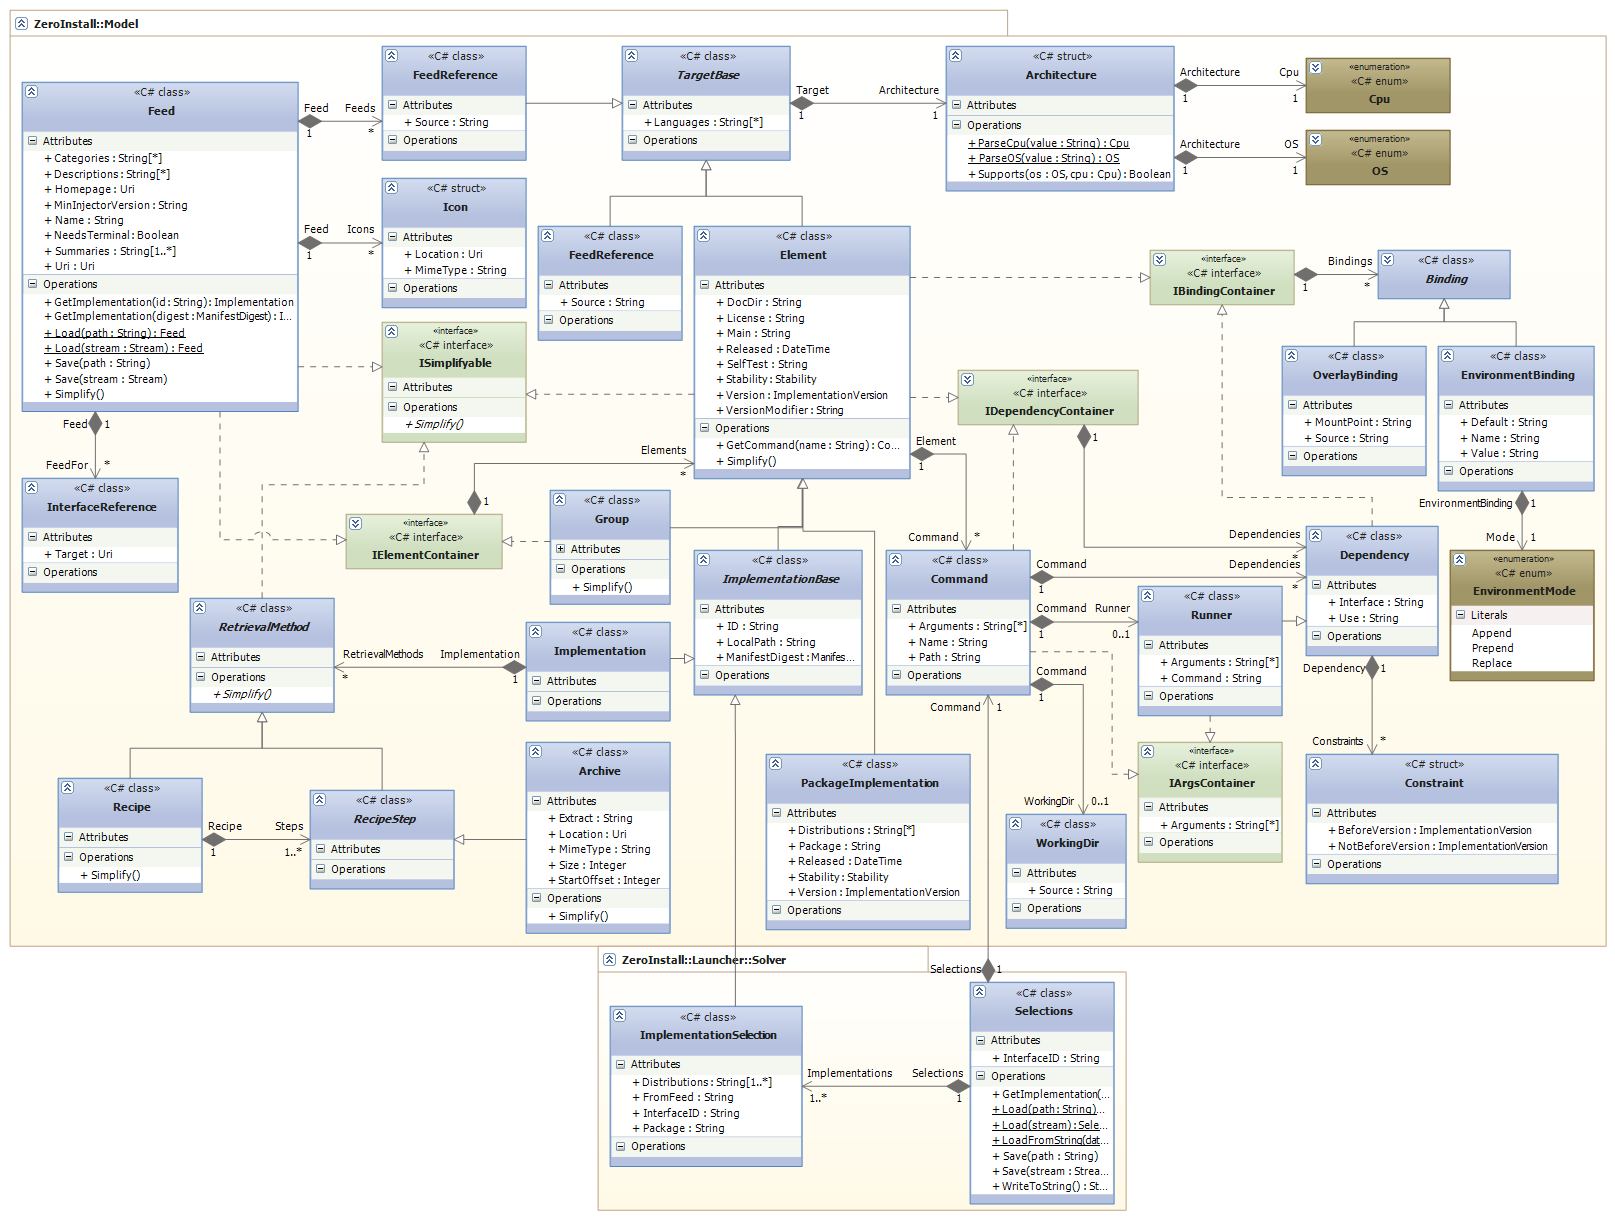
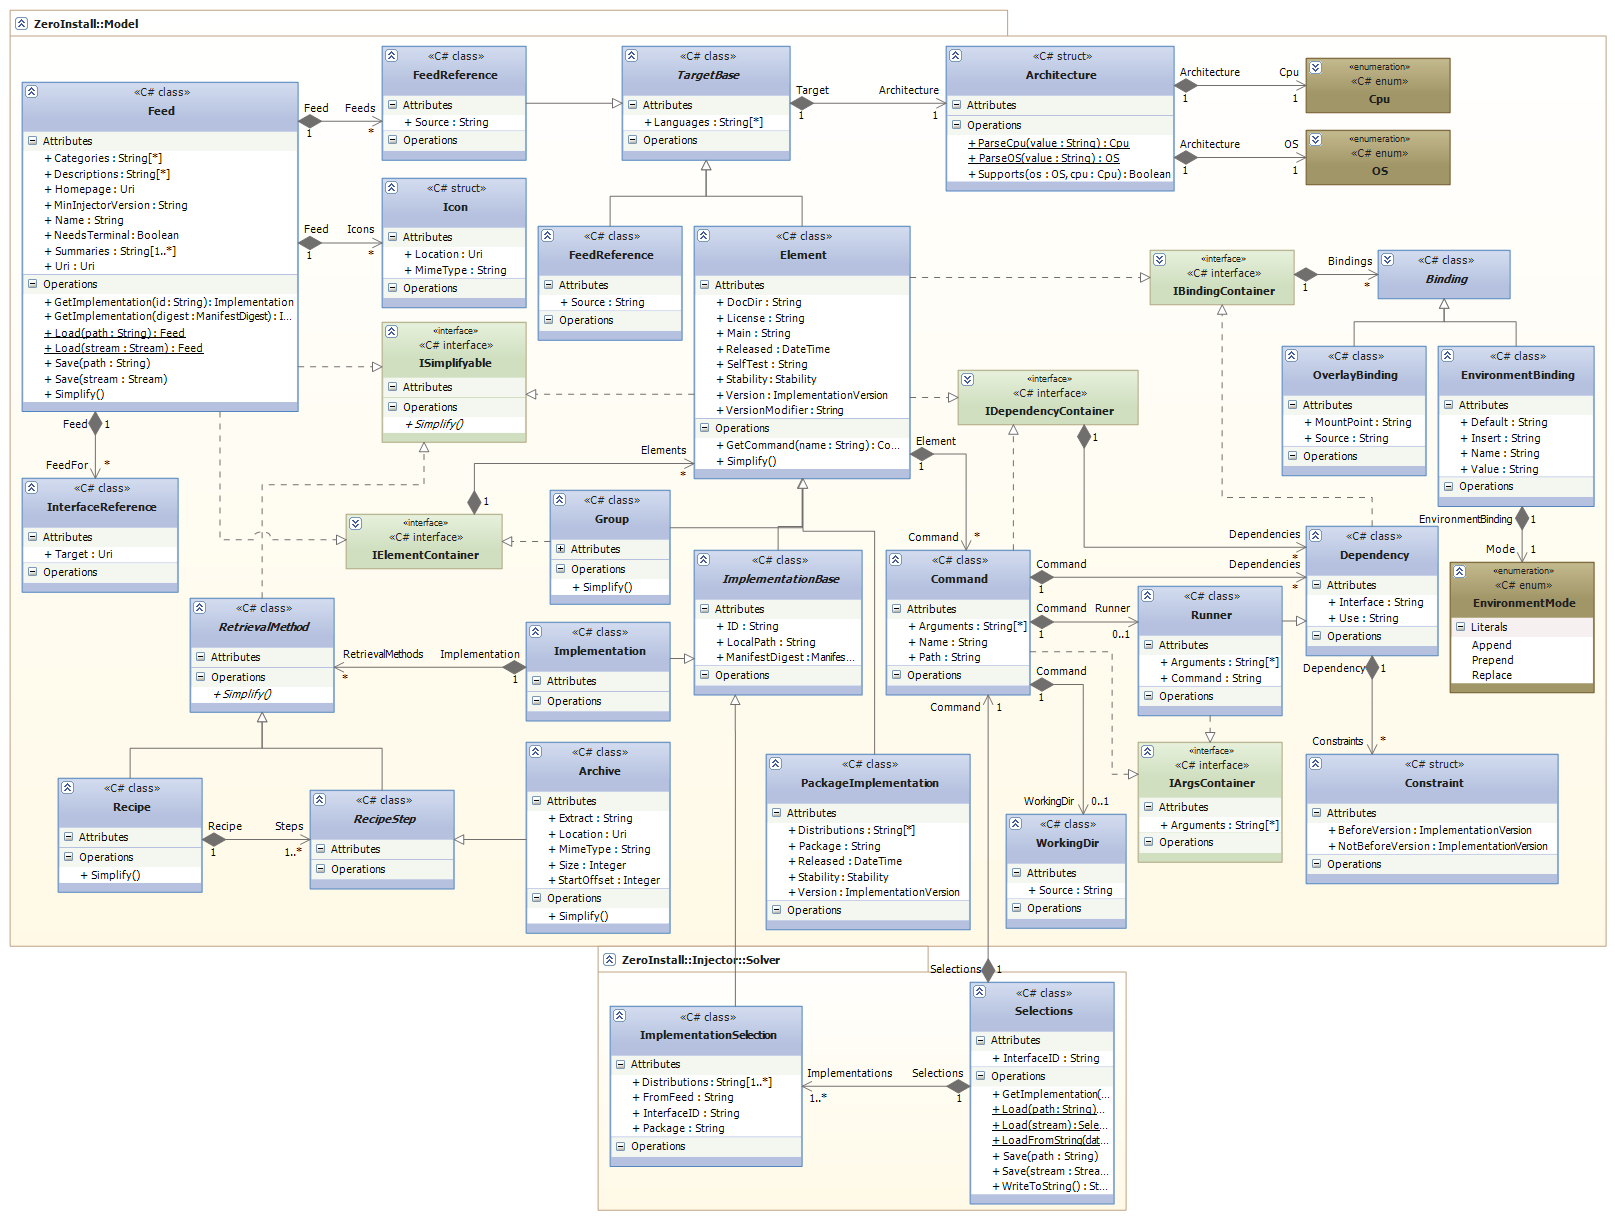
Added "value" attribute to EnvironmentBinding

Changed region(s): [[0.8669, 0.3429, 0.9907, 0.5923], [0.4334, 0.7793, 0.4954, 0.8105]]

diff --git a/src/Model/EnvironmentBinding.cs b/src/Model/EnvironmentBinding.cs
@@ -23,7 +23,7 @@ namespace ZeroInstall.Model
 {
     #region Enumerations
     /// <summary>
-    /// Controls how a <see cref="EnvironmentBinding.Value"/> is added to the variable.
+    /// Controls how a <see cref="EnvironmentBinding.Insert"/> is added to the variable.
     /// </summary>
     public enum EnvironmentMode
     {
@@ -54,14 +54,23 @@ namespace ZeroInstall.Model
         public string Name { get; set; }
 
         /// <summary>
-        /// The relative path of the item within the implementation to insert into the variable's value. Use <code>.</code> to publish the root directory.
+        /// A static value to set the variable to.
         /// </summary>
-        [Description("The relative path of the item within the implementation to insert into the variable's value. Use \".\" to publish the root directory")]
-        [XmlAttribute("insert")]
+        /// <remarks>If this is set <see cref="Insert"/> must be <see langword="null"/>.</remarks>
+        [Description("A static value to set the variable to.")]
+        [XmlAttribute("value")]
         public string Value { get; set; }
 
         /// <summary>
-        /// Controls how the <see cref="Value"/> is added to the variable.
+        /// The relative path of the item within the implementation to insert into the variable's value. Use <code>.</code> to publish the root directory.
+        /// </summary>
+        /// <remarks>If this is set <see cref="Value"/> must be <see langword="null"/>.</remarks>
+        [Description("The relative path of the item within the implementation to insert into the variable's value. Use \".\" to publish the root directory.")]
+        [XmlAttribute("insert")]
+        public string Insert { get; set; }
+
+        /// <summary>
+        /// Controls how the <see cref="Insert"/> is added to the variable.
         /// </summary>
         [Description("Controls how the value is added to the variable.")]
         [XmlAttribute("mode"), DefaultValue(typeof(EnvironmentMode), "Prepend")]
@@ -84,8 +93,8 @@ namespace ZeroInstall.Model
         public override string ToString()
         {
             return (Mode == EnvironmentMode.Replace)
-                ? string.Format("EnvironmentBinding: {0} = {1} ({2})", Name, Value, Mode)
-                : string.Format("EnvironmentBinding: {0} = {1} ({2}, {3})", Name, Value, Mode, Default);
+                ? string.Format("EnvironmentBinding: {0} = {1} ({2})", Name, Insert, Mode)
+                : string.Format("EnvironmentBinding: {0} = {1} ({2}, {3})", Name, Insert, Mode, Default);
         }
         #endregion
 
@@ -96,7 +105,7 @@ namespace ZeroInstall.Model
         /// <returns>The new copy of the <see cref="EnvironmentBinding"/>.</returns>
         public override Binding CloneBinding()
         {
-            return new EnvironmentBinding { Name = Name, Value = Value, Mode = Mode, Default = Default };
+            return new EnvironmentBinding { Name = Name, Value = Value, Insert = Insert, Mode = Mode, Default = Default };
         }
         #endregion
 
@@ -106,7 +115,7 @@ namespace ZeroInstall.Model
         {
             if (ReferenceEquals(null, other)) return false;
 
-            return other.Name == Name || other.Value == Value || other.Mode == Mode || other.Default == Default;
+            return other.Name == Name || other.Value == Value || other.Insert == Insert || other.Mode == Mode || other.Default == Default;
         }
 
         /// <inheritdoc/>
@@ -124,6 +133,7 @@ namespace ZeroInstall.Model
             {
                 int result = (Name != null ? Name.GetHashCode() : 0);
                 result = (result * 397) ^ (Value ?? "").GetHashCode();
+                result = (result * 397) ^ (Insert ?? "").GetHashCode();
                 result = (result * 397) ^ Mode.GetHashCode();
                 result = (result * 397) ^ (Default ?? "").GetHashCode();
                 return result;

diff --git a/src/Test.Backend/Injector/ExecutorTest.cs b/src/Test.Backend/Injector/ExecutorTest.cs
@@ -94,7 +94,9 @@ namespace ZeroInstall.Injector
                 startInfo.Arguments);
             Assert.AreEqual(Path.Combine("test1 path", "bin"), startInfo.WorkingDirectory);
             Assert.AreEqual("test1 path", startInfo.EnvironmentVariables["TEST1_PATH"]);
+            Assert.AreEqual("test1", startInfo.EnvironmentVariables["TEST1_VALUE"]);
             Assert.AreEqual("test2 path", startInfo.EnvironmentVariables["TEST2_PATH"]);
+            Assert.AreEqual("test2", startInfo.EnvironmentVariables["TEST2_VALUE"]);
         }
 
         /// <summary>
@@ -121,7 +123,9 @@ namespace ZeroInstall.Injector
                 startInfo.Arguments);
             Assert.AreEqual(Path.Combine("test1 path", "bin"), startInfo.WorkingDirectory);
             Assert.AreEqual("test1 path", startInfo.EnvironmentVariables["TEST1_PATH"]);
+            Assert.AreEqual("test1", startInfo.EnvironmentVariables["TEST1_VALUE"]);
             Assert.AreEqual("test2 path", startInfo.EnvironmentVariables["TEST2_PATH"]);
+            Assert.AreEqual("test2", startInfo.EnvironmentVariables["TEST2_VALUE"]);
         }
 
         /// <summary>
@@ -146,7 +150,9 @@ namespace ZeroInstall.Injector
                 startInfo.Arguments);
             Assert.AreEqual(Path.Combine("test1 path", "bin"), startInfo.WorkingDirectory);
             Assert.AreEqual("test1 path", startInfo.EnvironmentVariables["TEST1_PATH"]);
+            Assert.AreEqual("test1", startInfo.EnvironmentVariables["TEST1_VALUE"]);
             Assert.AreEqual("test2 path", startInfo.EnvironmentVariables["TEST2_PATH"]);
+            Assert.AreEqual("test2", startInfo.EnvironmentVariables["TEST2_VALUE"]);
         }
 
         /// <summary>
@@ -169,7 +175,9 @@ namespace ZeroInstall.Injector
             Assert.AreEqual(selections.Commands[1].Arguments[0] + " " + selections.Commands[0].Runner.Arguments[0] + " \"" + StringUtils.PathCombine("test1 path", "dir 1", "main") + "\" --custom", startInfo.Arguments);
             Assert.AreEqual(Path.Combine("test1 path", "bin"), startInfo.WorkingDirectory);
             Assert.AreEqual("test1 path", startInfo.EnvironmentVariables["TEST1_PATH"]);
+            Assert.AreEqual("test1", startInfo.EnvironmentVariables["TEST1_VALUE"]);
             Assert.AreEqual("test2 path", startInfo.EnvironmentVariables["TEST2_PATH"]);
+            Assert.AreEqual("test2", startInfo.EnvironmentVariables["TEST2_VALUE"]);
         }
 
         /// <summary>
@@ -196,7 +204,9 @@ namespace ZeroInstall.Injector
                 startInfo.Arguments);
             Assert.AreEqual(Path.Combine("test1 path", "bin"), startInfo.WorkingDirectory);
             Assert.AreEqual("test1 path", startInfo.EnvironmentVariables["TEST1_PATH"]);
+            Assert.AreEqual("test1", startInfo.EnvironmentVariables["TEST1_VALUE"]);
             Assert.AreEqual("test2 path", startInfo.EnvironmentVariables["TEST2_PATH"]);
+            Assert.AreEqual("test2", startInfo.EnvironmentVariables["TEST2_VALUE"]);
         }
     }
 }

diff --git a/src/Injector/Executor.cs b/src/Injector/Executor.cs
@@ -312,25 +312,33 @@ namespace ZeroInstall.Injector
         private static void ApplyEnvironmentBinding(ProcessStartInfo startInfo, string implementationDirectory, EnvironmentBinding binding)
         {
             var environmentVariables = startInfo.EnvironmentVariables;
-            string environmentValue = Path.Combine(implementationDirectory, StringUtils.UnifySlashes(binding.Value ?? ""));
 
-            if (!environmentVariables.ContainsKey(binding.Name)) environmentVariables.Add(binding.Name, binding.Default);
+            if (string.IsNullOrEmpty(binding.Value))
+            { // Set a path inside the implementation
+                string environmentValue = Path.Combine(implementationDirectory, StringUtils.UnifySlashes(binding.Insert ?? ""));
 
-            string newValue;
-            switch (binding.Mode)
-            {
-                default:
-                case EnvironmentMode.Prepend:
-                    newValue = environmentValue + Path.PathSeparator + environmentVariables[binding.Name];
-                    break;
-                case EnvironmentMode.Append:
-                    newValue = environmentVariables[binding.Name] + Path.PathSeparator + environmentValue;
-                    break;
-                case EnvironmentMode.Replace:
-                    newValue = environmentValue;
-                    break;
+                if (!environmentVariables.ContainsKey(binding.Name)) environmentVariables.Add(binding.Name, binding.Default);
+
+                string newValue;
+                switch (binding.Mode)
+                {
+                    default:
+                    case EnvironmentMode.Prepend:
+                        newValue = environmentValue + Path.PathSeparator + environmentVariables[binding.Name];
+                        break;
+                    case EnvironmentMode.Append:
+                        newValue = environmentVariables[binding.Name] + Path.PathSeparator + environmentValue;
+                        break;
+                    case EnvironmentMode.Replace:
+                        newValue = environmentValue;
+                        break;
+                }
+                environmentVariables[binding.Name] = newValue.Trim(Path.PathSeparator);
             }
-            environmentVariables[binding.Name] = newValue.Trim(Path.PathSeparator);
+            else
+            { // Set a static value
+                environmentVariables[binding.Name] = binding.Value;
+            }
         }
 
         /// <summary>

diff --git a/src/Publish.WinForms/FeedStructure/EnvironmentBindingForm.cs b/src/Publish.WinForms/FeedStructure/EnvironmentBindingForm.cs
@@ -86,7 +86,7 @@ namespace ZeroInstall.Publish.WinForms.FeedStructure
         {
             ClearControl();
             if (!String.IsNullOrEmpty(_environmentBinding.Name)) comboBoxName.Text = _environmentBinding.Name;
-            if (!String.IsNullOrEmpty(_environmentBinding.Value)) hintTextBoxInsert.Text = _environmentBinding.Value;
+            if (!String.IsNullOrEmpty(_environmentBinding.Insert)) hintTextBoxInsert.Text = _environmentBinding.Insert;
             comboBoxMode.SelectedItem = _environmentBinding.Mode;
             if (!String.IsNullOrEmpty(_environmentBinding.Default)) hintTextBoxDefault.Text = _environmentBinding.Default;
         }
@@ -102,7 +102,7 @@ namespace ZeroInstall.Publish.WinForms.FeedStructure
         /// <param name="e">Not used.</param>
         private void ButtonOkClick(object sender, EventArgs e)
         {
-            _environmentBinding.Value = (!String.IsNullOrEmpty(hintTextBoxInsert.Text)) ? hintTextBoxInsert.Text : null;
+            _environmentBinding.Insert = (!String.IsNullOrEmpty(hintTextBoxInsert.Text)) ? hintTextBoxInsert.Text : null;
             _environmentBinding.Mode = (EnvironmentMode)comboBoxMode.SelectedItem;
             _environmentBinding.Default = (!String.IsNullOrEmpty(hintTextBoxDefault.Text)) ? hintTextBoxDefault.Text : null;
             _environmentBinding.Name = (!String.IsNullOrEmpty(comboBoxName.Text)) ? comboBoxName.Text : null;

diff --git a/src/Test.Backend/Injector/Solver/ImplementationSelectionTest.cs b/src/Test.Backend/Injector/Solver/ImplementationSelectionTest.cs
@@ -40,7 +40,7 @@ namespace ZeroInstall.Injector.Solver
                 ID = "id1", ManifestDigest = new ManifestDigest("sha256=123"), Version = new ImplementationVersion("1.0"),
                 Architecture = new Architecture(OS.Windows, Cpu.I586), Languages = {new CultureInfo("en-US")},
                 DocDir = "doc", Stability = Stability.Developer,
-                Bindings = {new EnvironmentBinding {Name = "TEST1_PATH"}}
+                Bindings = {new EnvironmentBinding {Name = "TEST1_PATH"}, new EnvironmentBinding {Name = "TEST1_VALUE", Value = "test1"}}
             };
         }
         
@@ -56,7 +56,7 @@ namespace ZeroInstall.Injector.Solver
                 ID = "id2", ManifestDigest = new ManifestDigest("sha256=abc"), Version = new ImplementationVersion("1.0"),
                 Architecture = new Architecture(OS.Windows, Cpu.I586), Languages = {new CultureInfo("en-US")},
                 DocDir = "doc", Stability = Stability.Developer,
-                Bindings = {new EnvironmentBinding {Name = "TEST2_PATH"}}
+                Bindings = {new EnvironmentBinding {Name = "TEST2_PATH"}, new EnvironmentBinding {Name = "TEST2_VALUE", Value = "test2"}}
             };
         }
         #endregion
